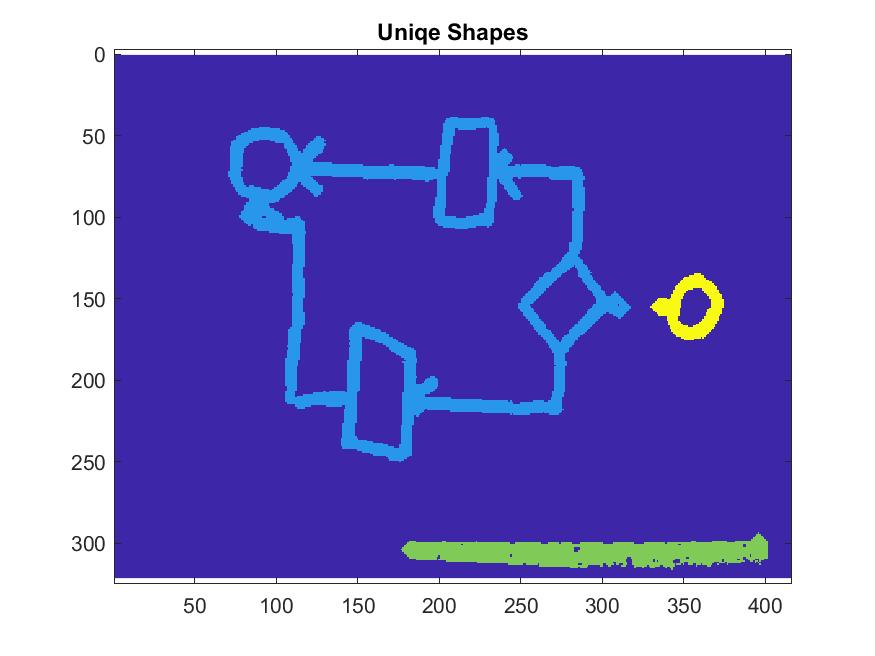
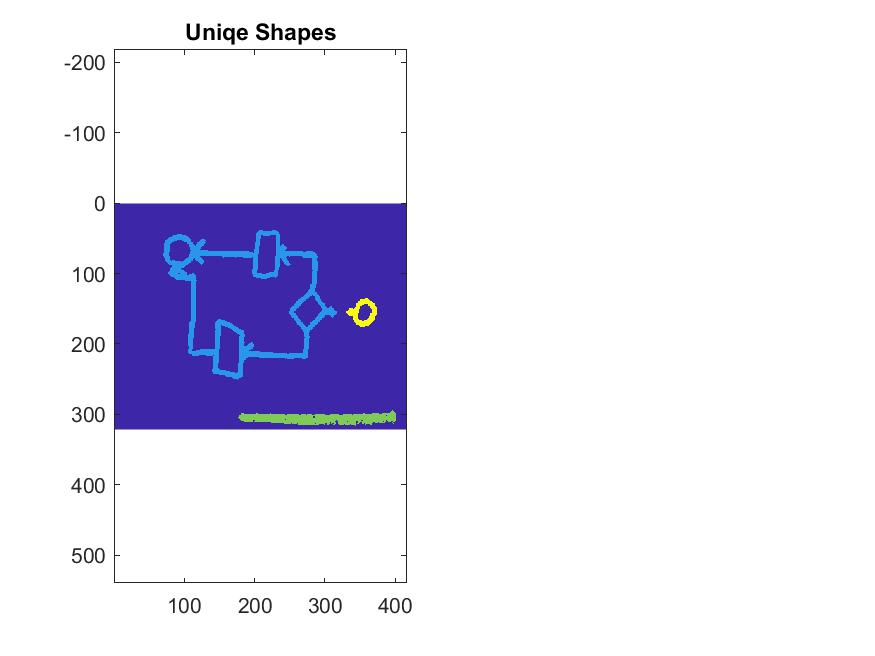
subplot completed

diff --git a/DiagramConverter.m b/DiagramConverter.m
@@ -4,7 +4,7 @@ close all;
 clear;
 
 %Input the image & create the output folder
-imgName = 'in2'; %image name
+imgName = '1'; %image name
 inputFile = strcat(imgName, '.jpg');
 inputFolder = './input';
 outputFolder = strcat('./output/', imgName); 
@@ -66,6 +66,7 @@ outputLocation = fullfile(outputFolder, outputFile);
 saveas(gcf, outputLocation);
 
 %Subplot the figures
+figure;
 subplot(2,2,1);imshow(invertedImage);title('Bitwise Inverted Image');
 subplot(2,2,2);imshow(noiseReducedImage);title('Noise Reduced Image');
 subplot(2,2,3);imshow(filledImage);title('Filled Image');
@@ -76,7 +77,7 @@ subplot(2,2,4);imshow(detectedEdges);title('Detected Edges');
 topPoints = houghpeaks(H, 100);
 
 detectedlLines = houghlines(detectedEdges,theta,rho,topPoints,'FillGap',5,'MinLength',2); 
-figure, imshow(noiseReducedImage), hold on
+figure;subplot(2,2,1); imshow(noiseReducedImage); hold on
 maxLength = 0;
 for i = 1:length(detectedlLines)
    xy = [detectedlLines(i).point1; detectedlLines(i).point2];
@@ -102,18 +103,12 @@ detectedlLines = houghlines(detectedEdges, theta, rho, topPoints);
 appropriateAngle = mode([detectedlLines.theta])+90;
 rotatedImage = imrotate(noiseReducedImage, appropriateAngle);
 rotatedFilledImage = imrotate(filledImage, appropriateAngle);
-figure;
-imshow(rotatedImage);
-title('Rotated Image');
 outputFile = 'Rotated Image.jpg';
 outputLocation = fullfile(outputFolder, outputFile);
 saveas(gcf, outputLocation);
 
 [rows, cols] = size(rotatedImage);
 
-figure;
-imshow(rotatedFilledImage);
-title('Rotated Filled Image');
 outputFile = 'Rotated Filled Image.jpg';
 outputLocation = fullfile(outputFolder, outputFile);
 saveas(gcf, outputLocation);
@@ -133,17 +128,20 @@ labelMatrixArrows = labelmatrix(connectedComponentsArrows);
 arrowsNew = ismember(labelMatrixArrows, find([statsArrows.Area] >= 10*rows/100));
 
 shapes = rotatedImage - arrows;
-figure;
-imshow(shapes);
-title('Detected Shapes');
+
 outputFile = 'Detected Shapes.jpg';
 outputLocation = fullfile(outputFolder, outputFile);
 saveas(gcf, outputLocation);
 
+%Subplot the figures (2,2,1 already plotted)
+subplot(2,2,2);imshow(rotatedImage);title('Rotated Image');
+subplot(2,2,3);imshow(rotatedFilledImage);title('Rotated Filled Image');
+subplot(2,2,4);imshow(shapes);title('Detected Shapes');
+
 %Detect Rectangales, Circles, Diamonds
 [shape, noShape] = bwlabel(shapes);
 figure;
-imagesc(shape);
+subplot(1,2,1);imagesc(shape);
 axis equal;
 title('Uniqe Shapes');
 outputFile = 'Uniqe Shapes.jpg';
@@ -175,10 +173,9 @@ shapeDiamond = logical(shapeDiamond .* ~shapeCircle);
 
 %Identify arrows
 [arrowL, arrowN] = bwlabel(arrows);
-figure;
-imagesc(arrowL);
+subplot(1,2,2);imagesc(arrowL);
 axis equal;
-
+title('Arrows Heads and Tails');
 arrowProperties = regionprops(arrowL, 'all');
 
 arrowCentroids = cat(1, arrowProperties.Centroid);
